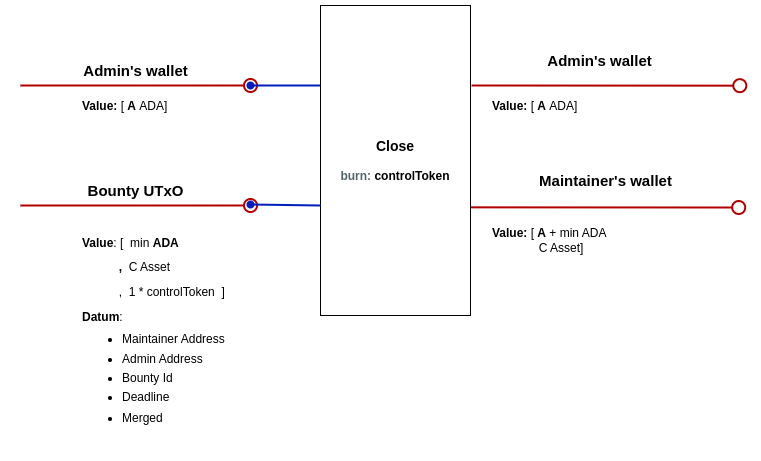
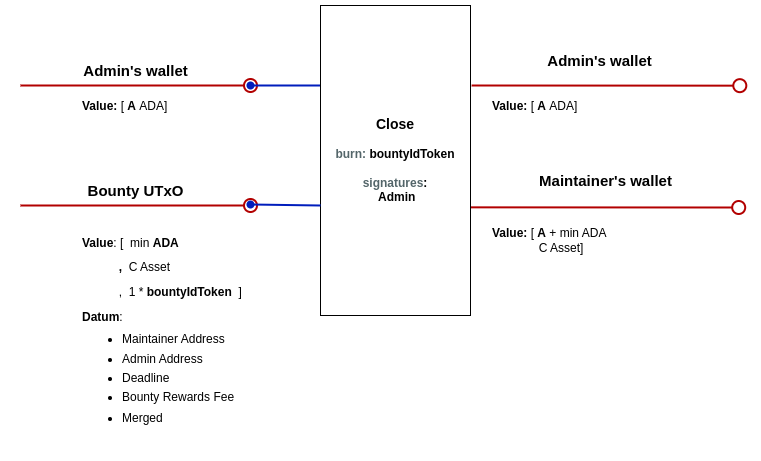
Global settings as utxo changes

Changed region(s): [[0.4534, 0.243, 0.6045, 0.4555], [0.1511, 0.7896, 0.3022, 0.8807], [0.1813, 0.6074, 0.3022, 0.6681]]

diff --git a/docs/design.md b/docs/design.md
@@ -4,8 +4,9 @@
 
 This document describes the technical design of the GitHoney dApp - the script UTxOs involved, the operations that take place during the bounty lifecycle, and the necessary validators and minting policies.
 
-There will be a single `BountyUtxo` for each bounty, holding the reward assets deposited by the maintainers. A `ControlToken` will be minted and held in the `BountyUtxo` during the bounty creation. Initially, the contributor field in the datum will be null until a developer decides to work on that bounty, at which point their `PaymentPubKeyHash` will be added to the datum. The `ControlToken` ensures the correctness of the `BountyUtxo` datum, the initial payment of the bounty creation fee to GitHoney, and also that the reward assets are not null. The presence of the `ControlToken` within a UTxO held at the validator address will serve as proof that the UTxO is a `BountyUtxo`.
-**Multivalidators** will be utilized, meaning both scripts share the same parameters. Consequently, the script address and the minting policy ID are identical. This enables identification of the policy ID of the `ControlToken` within the validator and the validator address within the minting policy.
+There will be a single `BountyUtxo` for each bounty, holding the reward assets deposited by the maintainers. A `BountyIdToken` will be minted and held in the `BountyUtxo` during the bounty creation. Initially, the contributor field in the datum will be null until a developer decides to work on that bounty, at which point their `PaymentPubKeyHash` will be added to the datum. The `BountyIdToken` ensures the correctness of the `BountyUtxo` datum, the initial payment of the bounty creation fee to GitHoney, and also that the reward assets are not null. The presence of the `BountyIdToken` within a UTxO held at the validator address will prove that the UTxO is a `BountyUtxo`. The `BountyIdToken` will be burnt when the bounty is closed or claimed, and the token name will be the bounty identifier.
+**Multivalidators** will be utilized, meaning both scripts share the same parameters. Consequently, the script address and the minting policy ID are identical. This enables identification of the policy ID of the `BountyIdToken` within the validator and the validator address within the minting policy.
+Additionally, global parameters of the validator and minting policy are stored in the `Settings Utxo` identified by an `NFT policy ID`. This will allow for easy updating of the parameters without the need to redeploy the scripts.
 
 ## UTxOs Specification
 
@@ -13,14 +14,14 @@ There will be a single `BountyUtxo` for each bounty, holding the reward assets d
 
 > #### Address
 >
-> - Parameterized on the `GitHoneyAddress`, `BountyCreationFee`, and `BountyRewardFee`.
+> - Parameterized on the `NFT policy ID`.
 >
 > #### Datum
 >
 > - admin: **PaymentPubKeyHash**
 > - maintainer: **PaymentPubKeyHash**
 > - contributor: **Optional(PaymentPubKeyHash)** (if assigned)
-> - bounty_id: **String**
+> - bounty_reward_fee: **Bigint**
 > - deadline: **POSIXTime**
 > - merged: **Bool**
 >
@@ -28,24 +29,24 @@ There will be a single `BountyUtxo` for each bounty, holding the reward assets d
 >
 > - minAda
 > - reward_assets
-> - `ControlToken`
+> - `BountyIdToken`
 
-### ControlToken
+### BountyIdToken
 
-The `ControlToken` is a minted token that is used to validate the `BountyUtxo` and ensure the correctness of the datum.
+The `BountyIdToken` is a minted token that is used to validate the `BountyUtxo`, identifies the bounty with the token name and ensure the correctness of the datum.
 
 ## Transactions
 
 ### Create BountyUtxo
 
-This transaction creates a `BountyUtxo` locking the reward assets plus min ADA and a `ControlToken`. It sets the maintainer, deadline, bounty_id, admin, and merged (*set to False*) in the datum.
+This transaction creates a `BountyUtxo` locking the reward assets plus min ADA and a `BountyIdToken`. It sets the maintainer, deadline, admin, and merged (\_set to False\*) in the datum.
 
 ```typescript
 /**
  * Builds a `createBounty` transaction. The tx is built in the context of the maintainer wallet.
  * @param maintainerAddr The maintainer's address.
  * @param adminAddr The admin's address.
- * @param reward The reward asset and amount to be locked in the bounty UTxO.
+ * @param rewards The reward assets and amount to be locked in the bounty UTxO.
  * @param deadline The deadline for the bounty.
  * @param bounty_id The bounty identifier.
  * @param lucid Lucid instance.
@@ -54,7 +55,7 @@ This transaction creates a `BountyUtxo` locking the reward assets plus min ADA a
 async function createBounty(
   maintainerAddr: string,
   adminAddr: string,
-  reward: { unit: string; amount: bigint },
+  rewards: assets,
   deadline: bigint,
   bounty_id: string,
   lucid: Lucid
@@ -72,14 +73,14 @@ Adds additional reward assets to an existing `BountyUtxo`.
  * Builds an `addReward` transaction. The tx is built in the context of any wallet.
  * @param utxoRef The reference of the last transaction output that contains the bounty UTxO.
  * @param address The address of the current wallet.
- * @param reward The reward asset and amount to be added.
+ * @param rewards The reward assets and amount to be added.
  * @param lucid Lucid instance.
  * @returns The cbor of the unsigned transaction.
  */
 async function addRewards(
   utxoRef: OutRef,
   address: string,
-  reward: { unit: string; amount: bigint },
+  rewards: assets,
   lucid: Lucid
 ): Promise<string>;
 ```
@@ -109,7 +110,7 @@ async function assignContributor(
 
 ### Close Bounty
 
-The admin closes the bounty, returning the reward assets to the maintainer and burning the `ControlToken`. If a contributor is assigned, the min ADA is returned to them.
+The admin closes the bounty, returning the reward assets to the maintainer and burning the `BountyIdToken`. If a contributor is assigned, the min ADA is returned to them.
 
 ```typescript
 /**
@@ -118,10 +119,7 @@ The admin closes the bounty, returning the reward assets to the maintainer and b
  * @param utxoRef The reference of the last transaction output that contains the bounty UTxO.
  * @returns The cbor of the unsigned transaction.
  */
-async function closeBounty(
-  utxoRef: OutRef,
-  lucid: Lucid
-): Promise<string>;
+async function closeBounty(utxoRef: OutRef, lucid: Lucid): Promise<string>;
 ```
 
 #### Close Bounty Before Contributor Assignment
@@ -134,7 +132,7 @@ async function closeBounty(
 
 ### Merge Bounty
 
-Pays GitHoney the reward assets multiplied by the `BountyRewardFee`. Updates the merged field to *True*. The contributor's min ADAs remain in the UTxO.
+Pays GitHoney the reward assets multiplied by the `BountyRewardFee`. Updates the merged field to _True_. The contributor's min ADAs remain in the UTxO.
 
 ```typescript
 /**
@@ -150,7 +148,7 @@ async function mergeBounty(ref_input: OutRef, lucid: Lucid): Promise<string>;
 
 ### Claim Bounty
 
-Pays the contributor the remaining reward assets and burns the `ControlToken`.
+Pays the contributor the remaining reward assets and burns the `BountyIdToken`.
 
 ```typescript
 /**
@@ -169,20 +167,40 @@ async function claimBounty(
 
 ![claimBounty diagram](img/claim.png "Claim Bounty Tx")
 
+## Settings Transactions
+
+### Deploy Settings
+
+This transaction deploys the `GlobalSettings` UTxO, which holds the global parameters of the dApp. The NFT policy ID of the minted token identifies the `GlobalSettings` UTxO. Besides the settings the utxo will hold also the `Githoney Validator` code, due to this utxo will be used as reference input of all the redeemers of the `Githoney Validator`.
+
+![deploySettings diagram](img/deploySettings.png "Deploy Settings Tx")
+
+### Update Settings
+
+Updates the global parameters of the dApp, changing the datum of the `GlobalSettings` UTxO.
+
+![updateSettings diagram](img/updateSettings.png "Update Settings Tx")
+
+### Close Settings
+
+Closes the `GlobalSettings` UTxO, burning the NFT and refunding the ADA locked to githoney.
+
+![closeSettings diagram](img/closeSettings.png "Close Settings Tx")
+
 ## Validators & Minting Policies
 
 ### BountyValidator
 
-- Params: `GitHoneyAddress`, `BountyCreationFee`, and `BountyRewardFee`.
+- Params: `NFT policy ID`.
 
-#### *AddReward Redeemer*
+#### _AddReward Redeemer_
 
 - `BountyUtxo` input with a control token.
 - The `deadline` has not been reached.
 - `BountyUtxo` output value includes the input value plus additional reward assets.
 - Datum doesn't change.
 
-#### *AssignContributor Redeemer*
+#### _AssignContributor Redeemer_
 
 - `BountyUtxo` input with a control token.
 - The `deadline` has not been reached.
@@ -190,16 +208,16 @@ async function claimBounty(
 - Contributor's `PaymentPubKeyHash` is added to the `BountyUtxo` datum, and the rest of the datum fields are the same.
 - UTxO assets are the same plus min ADAs.
 
-#### *CloseBounty Redeemer*
+#### _CloseBounty Redeemer_
 
 - `BountyUtxo` input with a control token.
-- `ControlToken` is burnt.
+- `BountyIdToken` is burnt.
 - The merged field is False.
 - Reward assets and the min ADAs are paid back to the maintainer.
 - If the `contributor` is setted the min ADAs are paid back to the contributor.
 - Datum Admin address signed the transaction.
 
-#### *MergeBounty Redeemer*
+#### _MergeBounty Redeemer_
 
 - `BountyUtxo` input with a control token.
 - The merged field is False.
@@ -209,26 +227,59 @@ async function claimBounty(
 - Datum Admin address signed the transaction.
 - Datum merged field is updated to True, and the rest of the datum fields are the same.
 
-#### *ClaimBounty Redeemer*
+#### _ClaimBounty Redeemer_
 
 - `BountyUtxo` input with a control token.
 - The merged field is True.
-- `ControlToken` is burnt.
+- `BountyIdToken` is burnt.
 - The remaining reward assets in UTxO are paid to the `contributor`'s `PaymentPubKeyHash`.
 
-### mintingPolicy
+### Control Token mintingPolicy
 
-- Params: `BountyCreationFee`, `BountyRewardFee`, `GitHoneyAddress`.
+- Params: `NFT policy ID`.
 
 #### MINT
 
-- A single `ControlToken` is minted.
+- A single `BountyIdToken` is minted.
 - The minted token and the min ADAs are paid to the `BountyValidatorAddress`.
 - There are some reward assets paid to the `BountyUtxo`.
 - The datum of the `BountyUtxo` is checked for correctness:
 - Deadline must be in the future.
 - Merged field must be False.
 - Contributor field must be null.
+- Bounty reward fee must be greater than 0.
+
+#### BURN
+
+- Without checks
+
+### SettingsValidator
+
+- No Params
+
+#### _UpdateSettings Redeemer_
+
+- The datum `GitHoneyAddress` signed the transaction.
+- There is only one token besides ADA in the input `Settings Utxo`.
+- The token is in the output `Settings Utxo`.
+- The new datum have the correct format.
+
+#### _CloseSettings Redeemer_
+
+- The datum `GitHoneyAddress` signed the transaction.
+- The `Settings Utxo` value is payed to the `GitHoneyAddress`.
+- The NFT is burnt.
+
+### SettingsMintingPolicy
+
+- Params: `OutRef`
+
+#### MINT
+
+- Only one token is minted.
+- The `OutRef` is in the inputs.
+- The token is paid to the first output that has a script address and a datum
+  with the correct format.
 
 #### BURN
 
